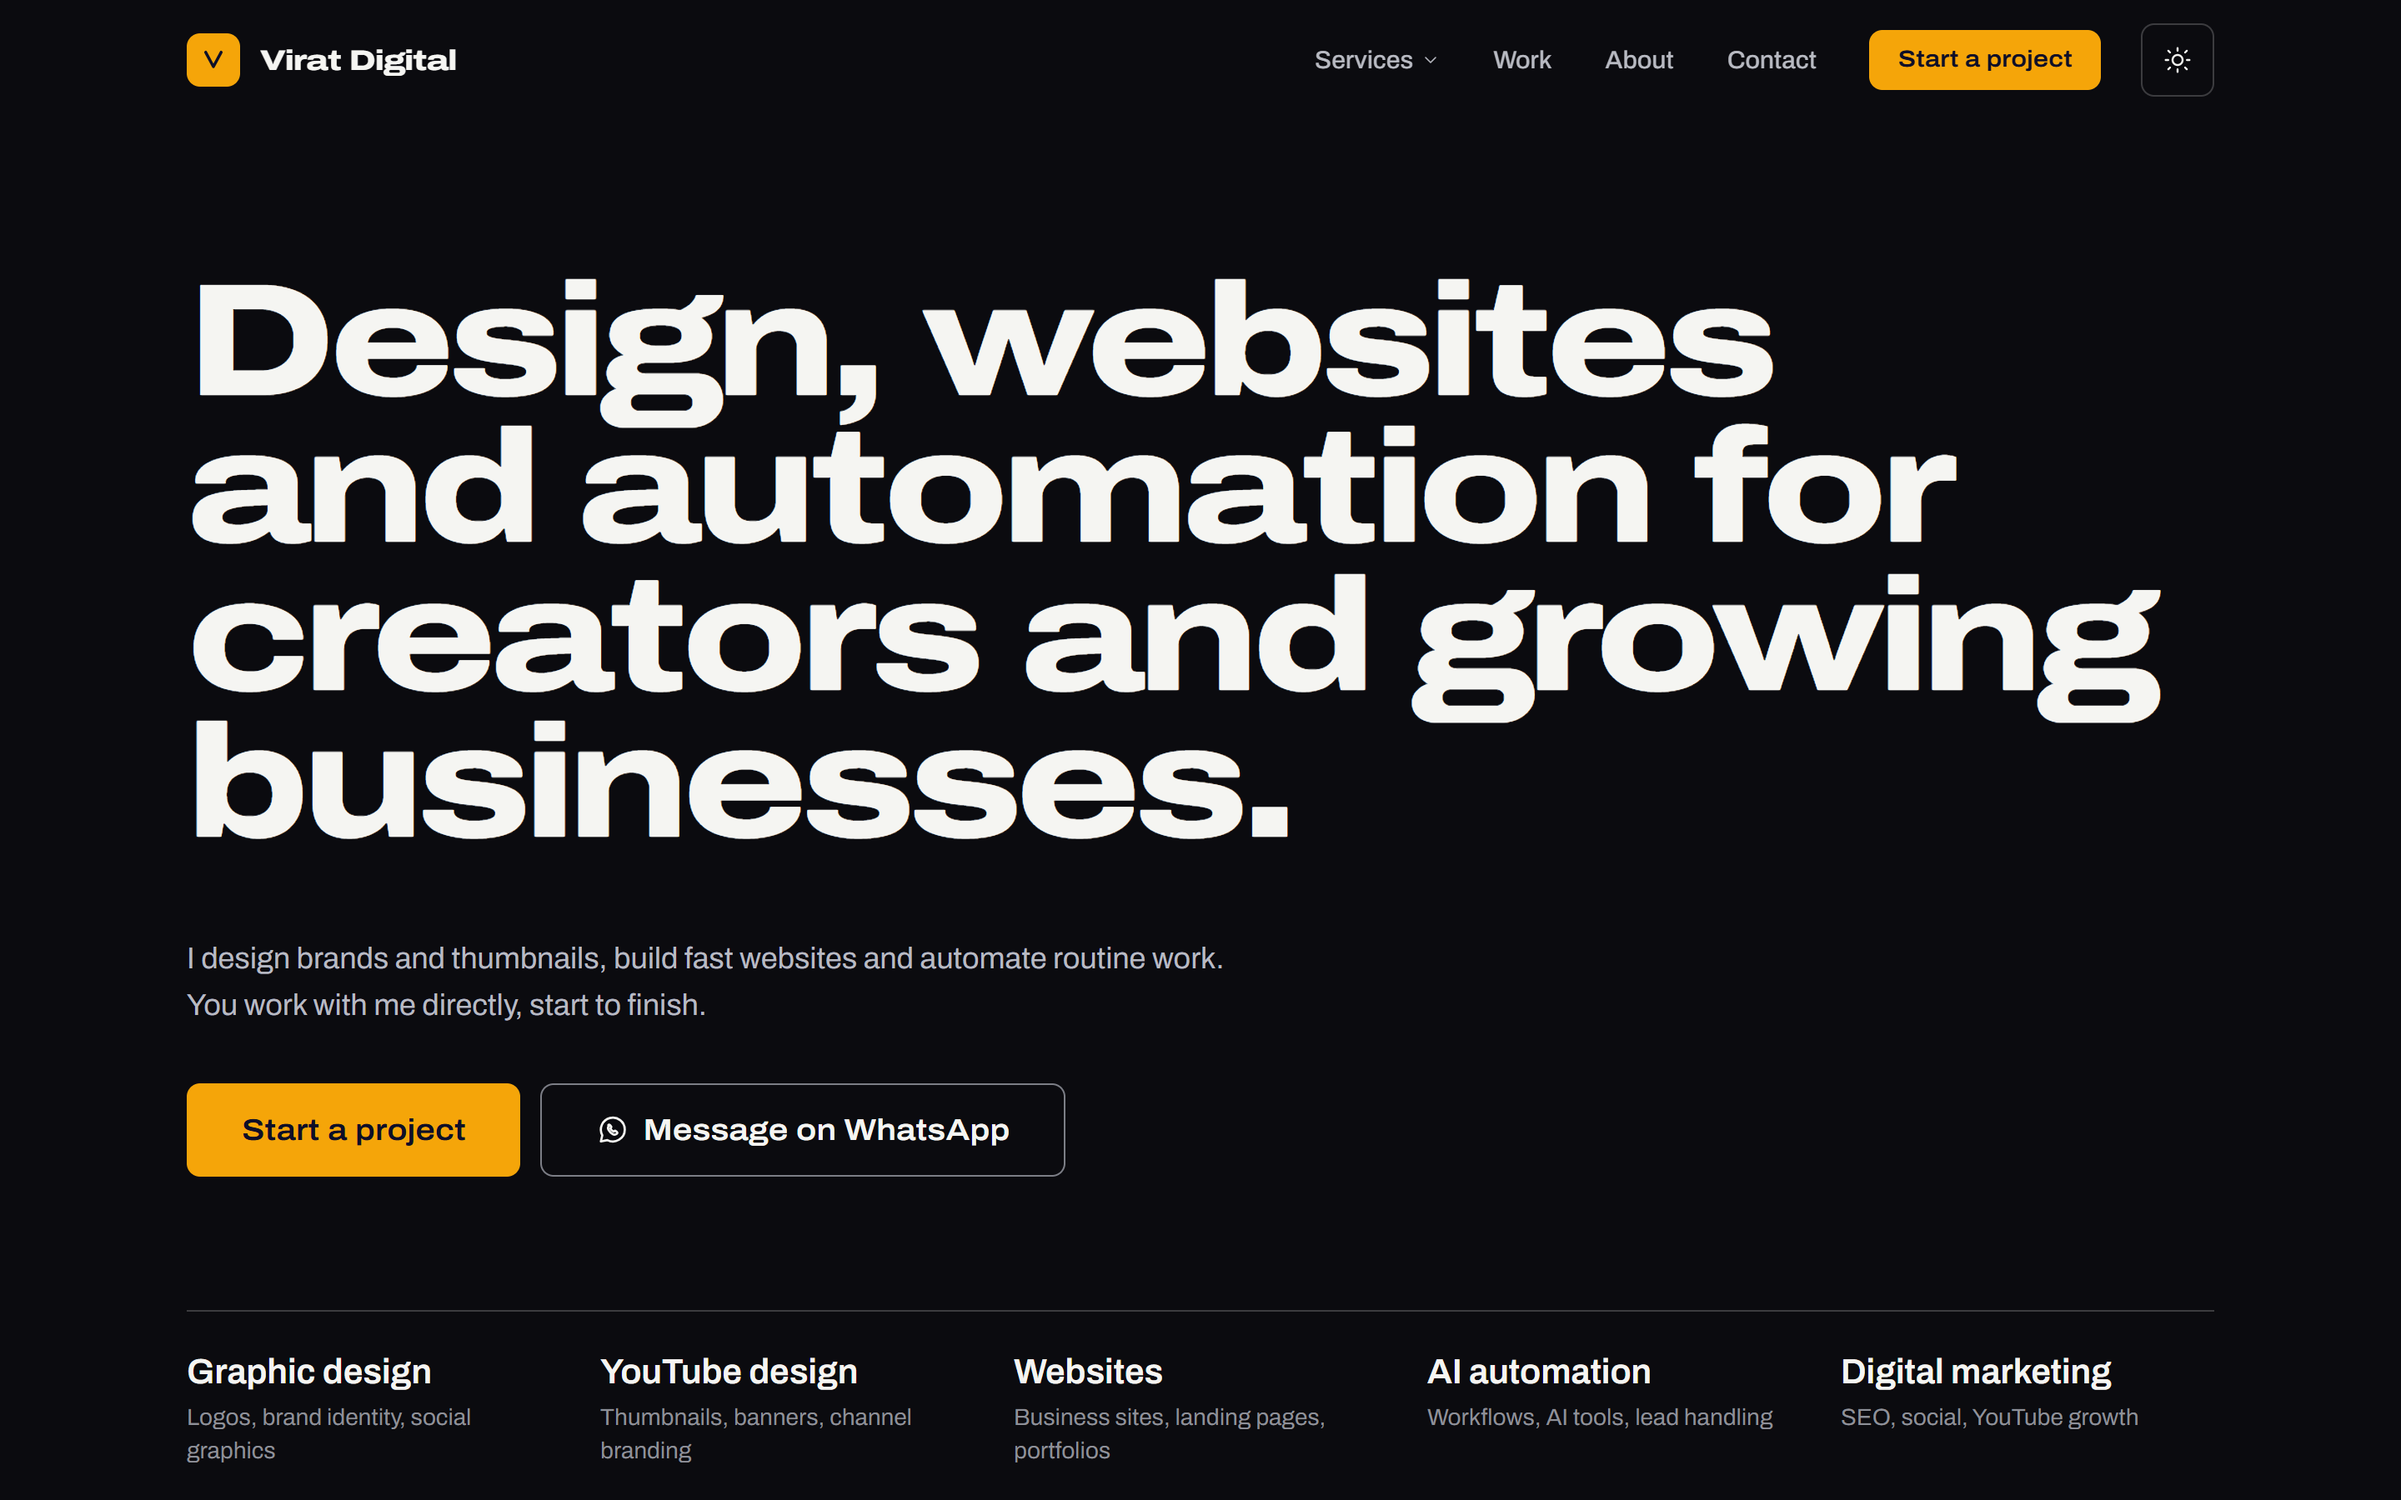
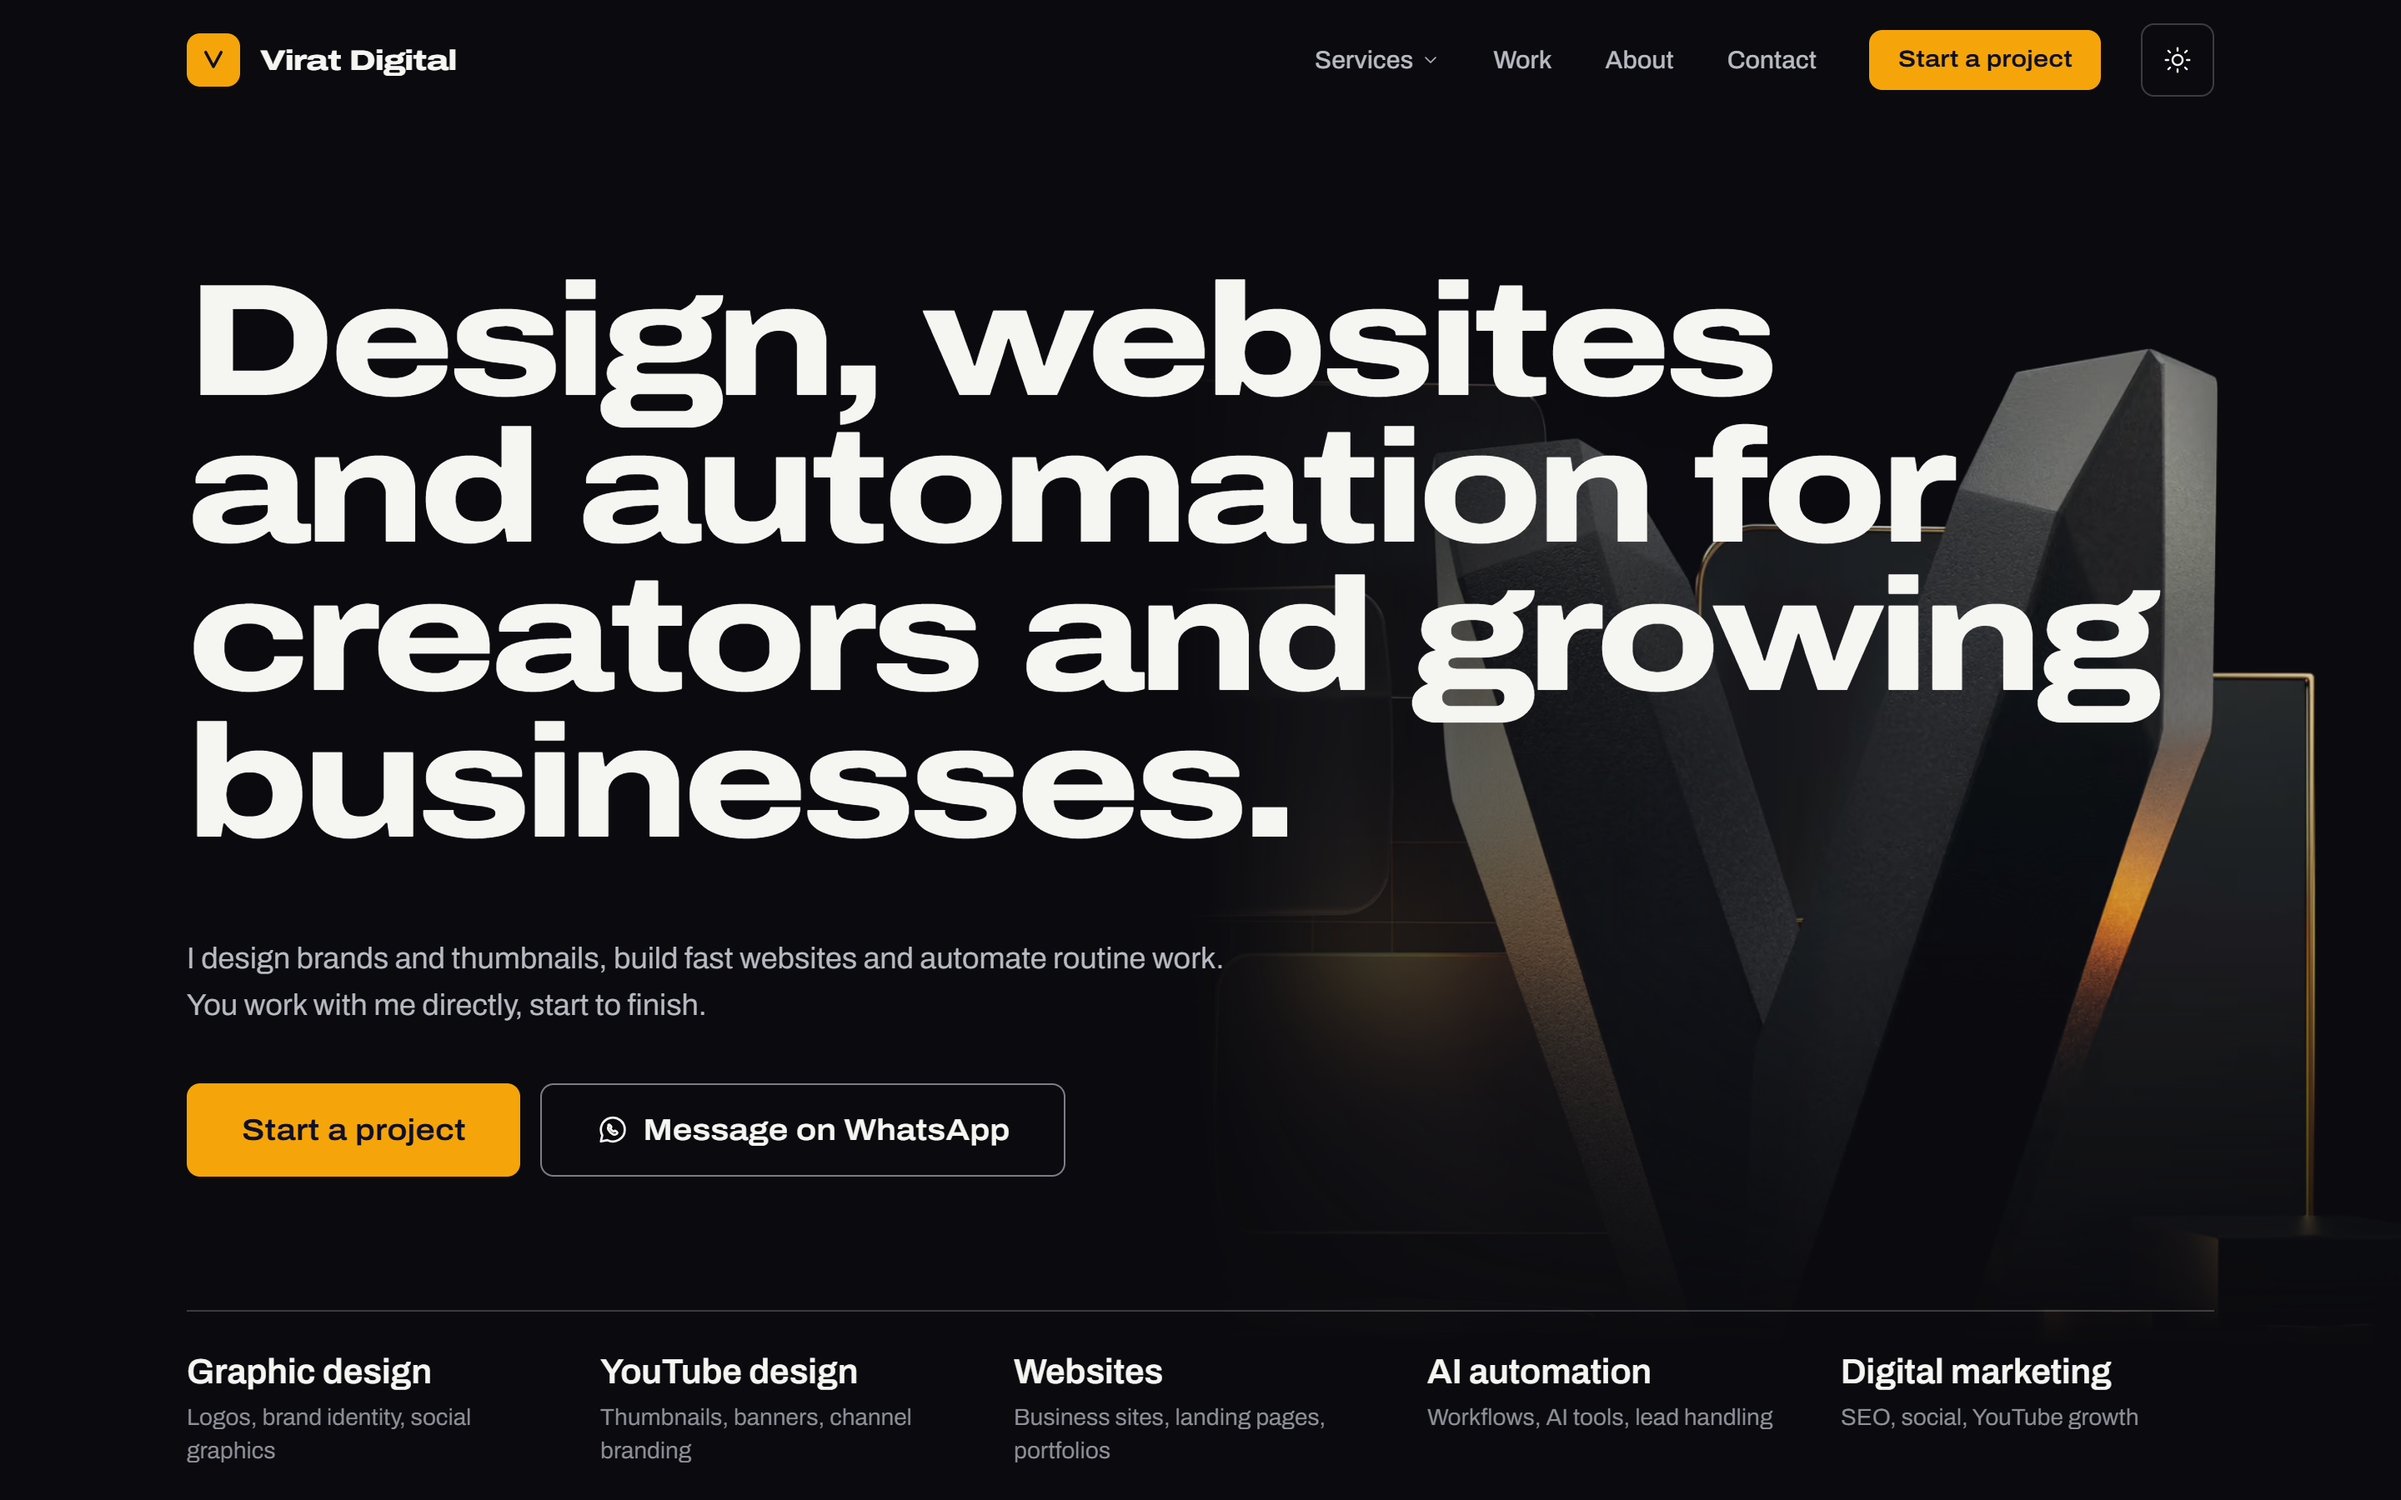
Retake the website cover and phone screenshots with the hero render
Same pages, themes, viewports and sizes as before; both now show the
sculpted V behind the headline, and their alt text says so.

Changed region(s): [[0.7188, 0.2178, 0.9688, 0.7778], [0.5312, 0.28, 0.7188, 0.7467], [0.0938, 0.9022, 0.125, 0.9333]]

diff --git a/src/content/work/virat-digital-website.md b/src/content/work/virat-digital-website.md
@@ -6,13 +6,13 @@ summary: "The site you're on: its own design system, light and dark themes, and 
 tools: [Astro, CSS, TypeScript, Playwright]
 format: site
 cover: ../../assets/work/virat-digital-website-cover.png
-coverAlt: The Virat Digital home page in its dark theme, with the headline "Design, websites and automation for creators and growing businesses" set in wide, heavy type above two buttons.
+coverAlt: The Virat Digital home page in its dark theme, with the headline "Design, websites and automation for creators and growing businesses" set in wide, heavy type above two buttons, with a sculpted dark V behind it on the right.
 word: Website
 featured: true
 order: 3
 gallery:
   - src: ../../assets/work/virat-digital-website-mobile.png
-    alt: The home page on a phone in the light theme, with the headline broken over six short lines and full-width buttons.
+    alt: The home page on a phone in the light theme, with the headline broken over six short lines, a pale stone V behind it, and full-width buttons.
     caption: Line breaks set for phones, down to a 320px screen.
   - src: ../../assets/work/virat-digital-website-menu.png
     alt: The mobile menu open in the dark theme, listing the five services, then Work, About and Contact, with Start a project and WhatsApp buttons.
